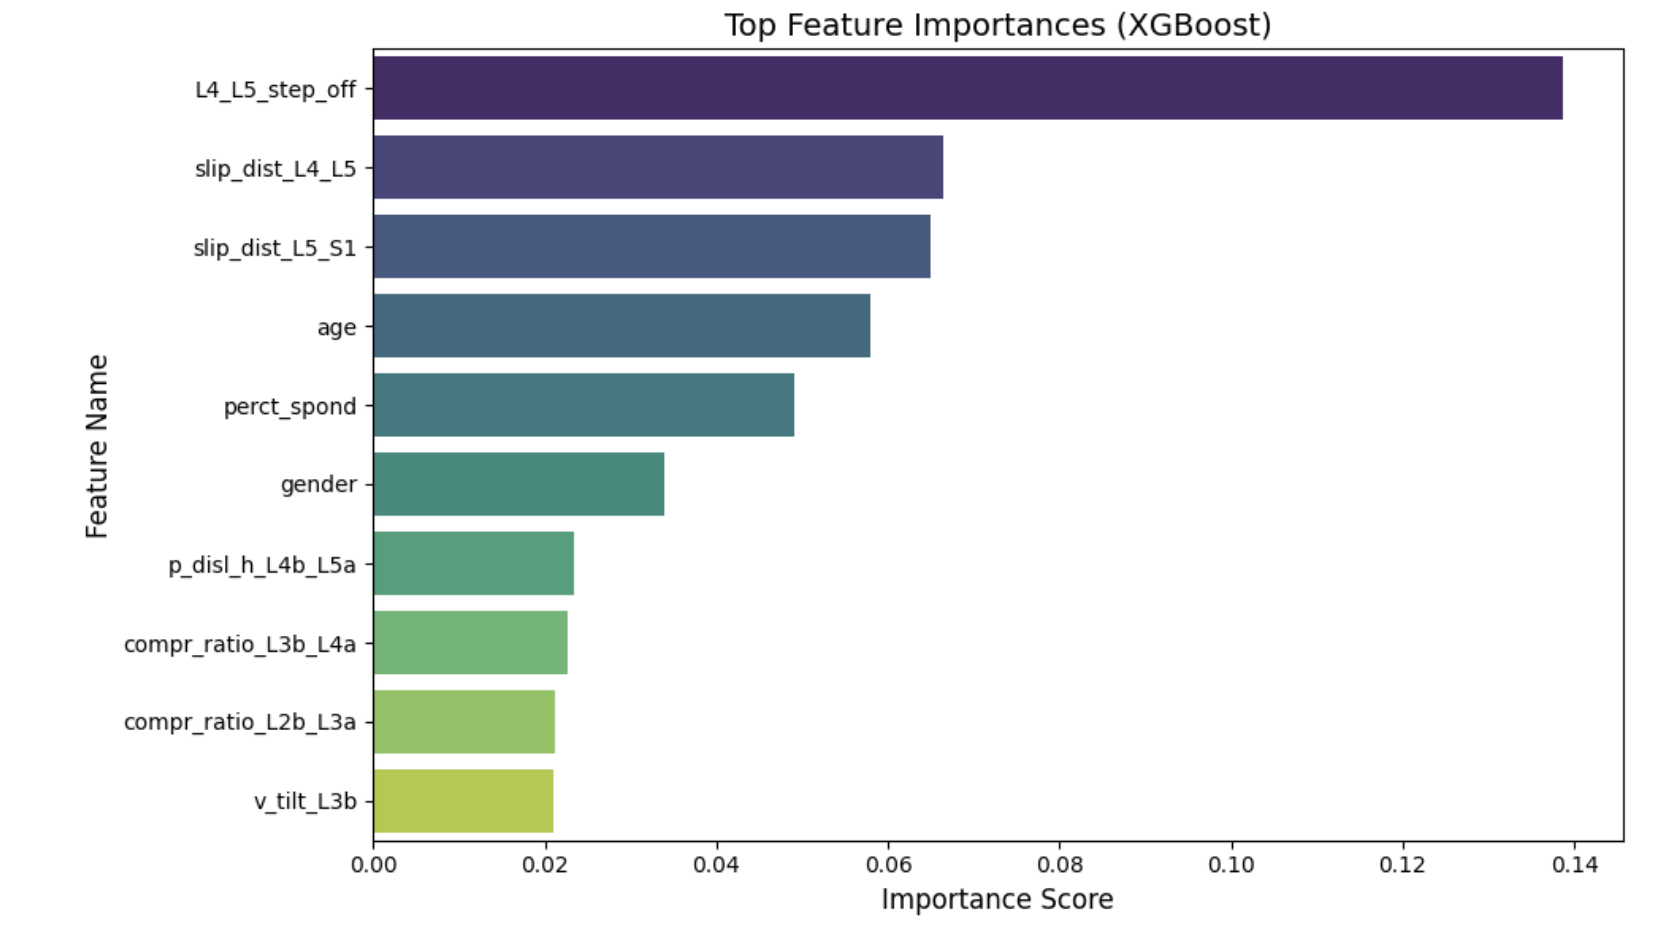
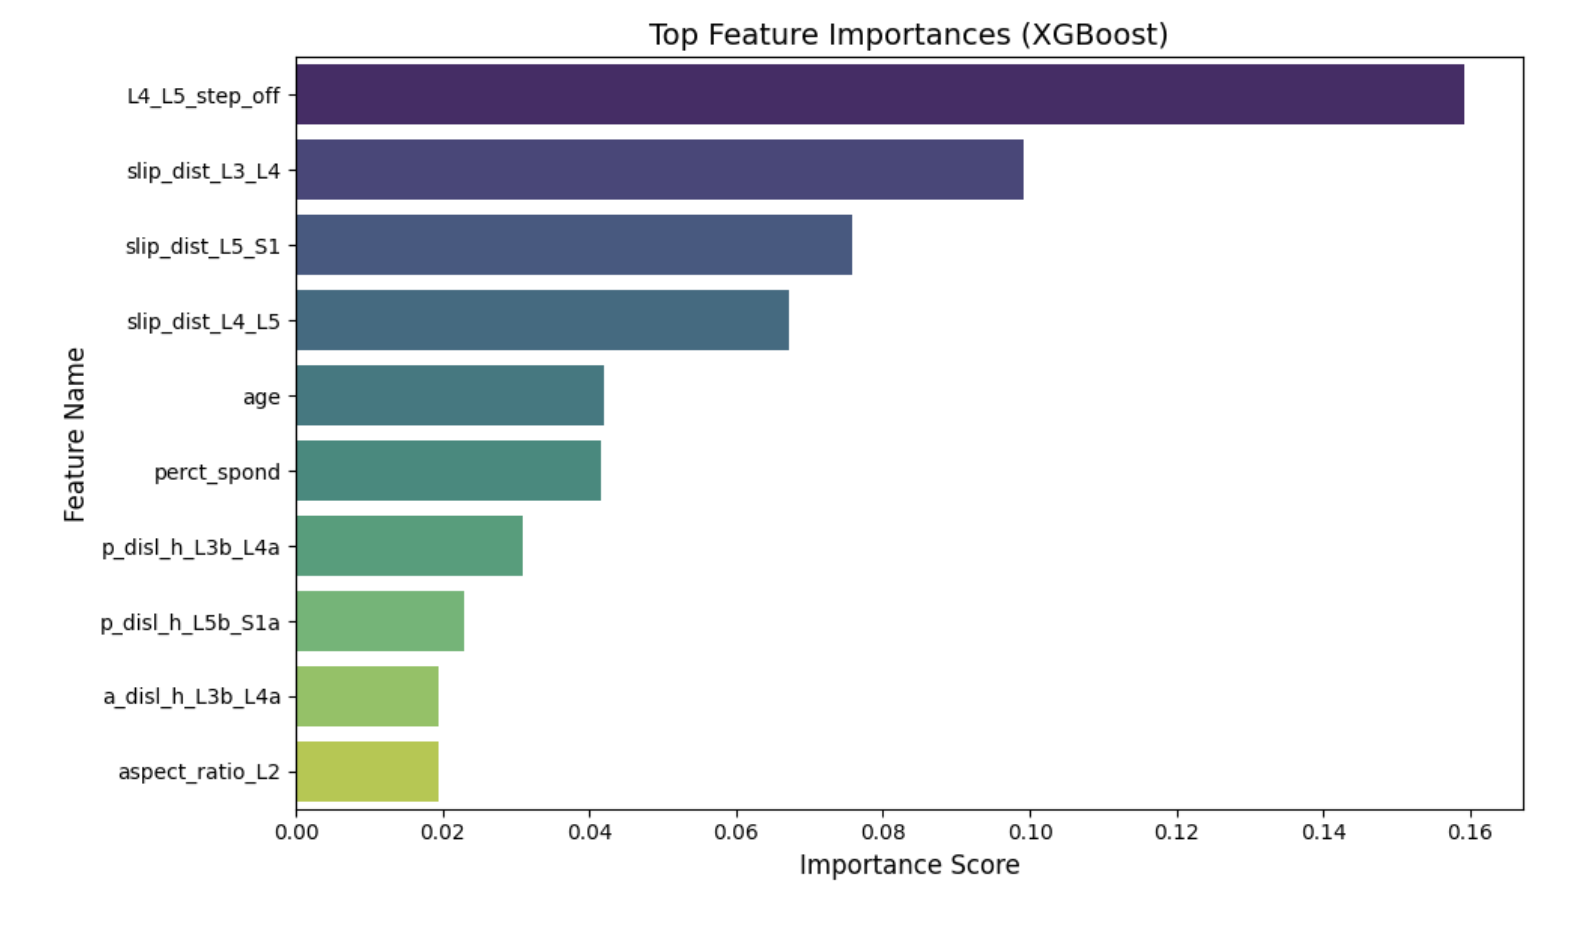
add shap scores

Changed region(s): [[0.0616, 0.0, 0.9849, 0.9625], [0.0308, 0.3726, 0.0616, 0.5589]]

diff --git a/test_image_labeling.py b/test_image_labeling.py
@@ -1,0 +1,44 @@
+import os
+import csv
+from PIL import Image
+
+src_dir = "/Users/lavanyanigam/Desktop/spondylolisthesis-vertebral-project/lumbar-spine-clean-test-images"
+csv_path = "/Users/lavanyanigam/Desktop/spondylolisthesis-vertebral-project/lumbar-spine-test-label.csv"
+
+
+os.makedirs(os.path.dirname(csv_path), exist_ok=True)
+
+
+with open(csv_path, mode="w", newline="") as f:
+    writer = csv.writer(f)
+    
+    
+    writer.writerow(["Image_Name", "Diagnosis"])
+    
+    
+    img_files = sorted(os.listdir(src_dir))
+
+    for img in img_files:
+        
+        if img.lower().endswith(".jpg"):
+            act_path = os.path.join(src_dir, img)
+            
+            try:
+                
+                img_obj = Image.open(act_path)
+                img_obj.show()
+                
+                
+                diagnosis = input(f"Looking at {img}. Enter diagnosis (or type 'q' to quit): ")
+                
+                if diagnosis.lower() == 'q':
+                    print("Quitting labeling process...")
+                    break
+                
+                
+                writer.writerow([img, diagnosis])
+                
+            except Exception as e:
+                print(f"Could not open {img}. Error: {e}")
+
+print("done")

diff --git a/test-image-preprocess.py b/test-image-preprocess.py
@@ -1,0 +1,30 @@
+import os
+import shutil
+
+
+src_dir = "/Users/lavanyanigam/Desktop/spondylolisthesis-vertebral-project/lumbar-spine-test-images"
+clean_path = "/Users/lavanyanigam/Desktop/spondylolisthesis-vertebral-project/lumbar-spine-clean-test-images"
+
+os.makedirs(clean_path, exist_ok=True)
+
+img_files = os.listdir(src_dir)
+
+count = 0
+for img in img_files:
+    
+    if img.endswith(".JPG"):
+        count += 1
+        clean_img = "test" + str(count) + ".JPG"
+        
+        
+        act_path = os.path.join(src_dir, img)
+        imgpth = os.path.join(clean_path, clean_img)
+        
+        
+        if not os.path.isfile(imgpth):
+            shutil.copy(act_path, imgpth)
+            print(f"copied {img} as {clean_img}")
+        else:
+            print(f"{clean_img} skipped")
+
+print("done")

diff --git a/README.md b/README.md
@@ -26,8 +26,8 @@ Below is the breakdown of the raw data by condition and gender. *(Note: While th
 | **Normal** | 1,856 | 1,123 | 2,979 |  (Class 0) |
 | **Anterolisthesis** | 343 | 121 | 464 |  (Class 1) |
 | **Retrolisthesis** | 94 | 100 | 194 |  (Class 2) |
-| **Left Laterolisthesis** | 44 | 17 | 61 | (not included in LA view) |
-| **Right Laterolisthesis** | 43 | 26 | 69 | (not included in LA view) |
+| **Left Laterolisthesis** | 44 | 17 | 61 | no |
+| **Right Laterolisthesis** | 43 | 26 | 69 | no |
 | *Total Disorders* | *424* | *197* | *621* | - |
 
 
@@ -52,9 +52,9 @@ Below is the breakdown of the raw data by condition and gender. *(Note: While th
 
 ### Cross-Validation Accuracy
 
-The model was evaluated using 5-fold cross-validation, yielding highly consistent results with an **average accuracy of 89.26%**.
+The model was evaluated using 5-fold cross-validation, yielding highly consistent results with an **average accuracy of 90.50%**.
 
-* **Fold Accuracies:** `[0.8863, 0.8782, 0.8917, 0.9012, 0.9053]`
+* **Fold Accuracies:** `[0.9036, 0.8876, 0.9093, 0.9093, 0.9161]`
 
 ### Confusion Matrix Analysis
 
@@ -79,22 +79,26 @@ Based on the validation set, the model demonstrates excellent discriminative abi
 
 ## Feature Importance
 
-The model's decisions are heavily driven by localized geometric measurements of the lower lumbar spine (L4, L5) and sacrum (S1). Below are the top 10 most influential features driving the model's predictions.
+The model's decisions are heavily driven by localized geometric measurements of the lower lumbar spine (L4, L5) and sacrum (S1). Below are the top 6 most influential features driving the model's predictions.
 
 | Rank | Feature | Importance Score | Description/Notes |
 | --- | --- | --- | --- |
-| **1** | `L4_L5_step_off` | 0.1387 | The most dominant predictor |
-| **2** | `slip_dist_L4_L5` | 0.0665 | Measures forward/backward slip |
-| **3** | `slip_dist_L5_S1` | 0.0650 | Critical junction for spondylolisthesis |
-| **4** | `age` | 0.0580 | Demographic factor |
-| **5** | `perct_spond` | 0.0490 | Percentage of spondylolisthesis |
-| **6** | `gender` | 0.0339 | Demographic factor |
-| **7** | `p_disl_h_L4b_L5a` | 0.0234 | Posterior dislocation height |
-| **8** | `compr_ratio_L3b_L4a` | 0.0227 | Compression ratio |
-| **9** | `compr_ratio_L2b_L3a` | 0.0213 | Compression ratio |
-| **10** | `v_tilt_L3b` | 0.0209 | Vertebral tilt |
+| **1** | `L4_L5_step_off` | 0.1592 | The most dominant predictor |
+| **2** | `slip_dist_L3_L4` | 0.0991 | Measures forward/backward slip |
+| **3** | `slip_dist_L4_L5` | 0.0758 | Measures forward/backward slip |
+| **4** | `slip_dist_L5_S1` | 0.0672 | Critical junction for spondylolisthesis |
+| **5** | `age` | 0.0418 | Demographic factor |
+| **6** | `perct_spond` | 0.0416 | Percentage of spondylolisthesis |
 
-*(Note: 32 additional geometric features contribute remaining fractional importance to the model, totaling 42 features).*
+*(Note: 38 additional geometric features contribute remaining fractional importance to the model, totaling 44 features).*
+
+## Results
+
+- The SHAP anaylysis for Retrolithesis class, similarly for other classes in Results
+<img src="results/shap_retrolithesis.png" alt="SHAP_Retrolisthesis" width="300"/>
+
+- SHAP waterfall plot for a specific patient showing exactly why the model predicted what it did for that person.
+<img src="results/shap_waterfall.png" alt="Retrolisthesis" width="300"/>
 
 ---
 
